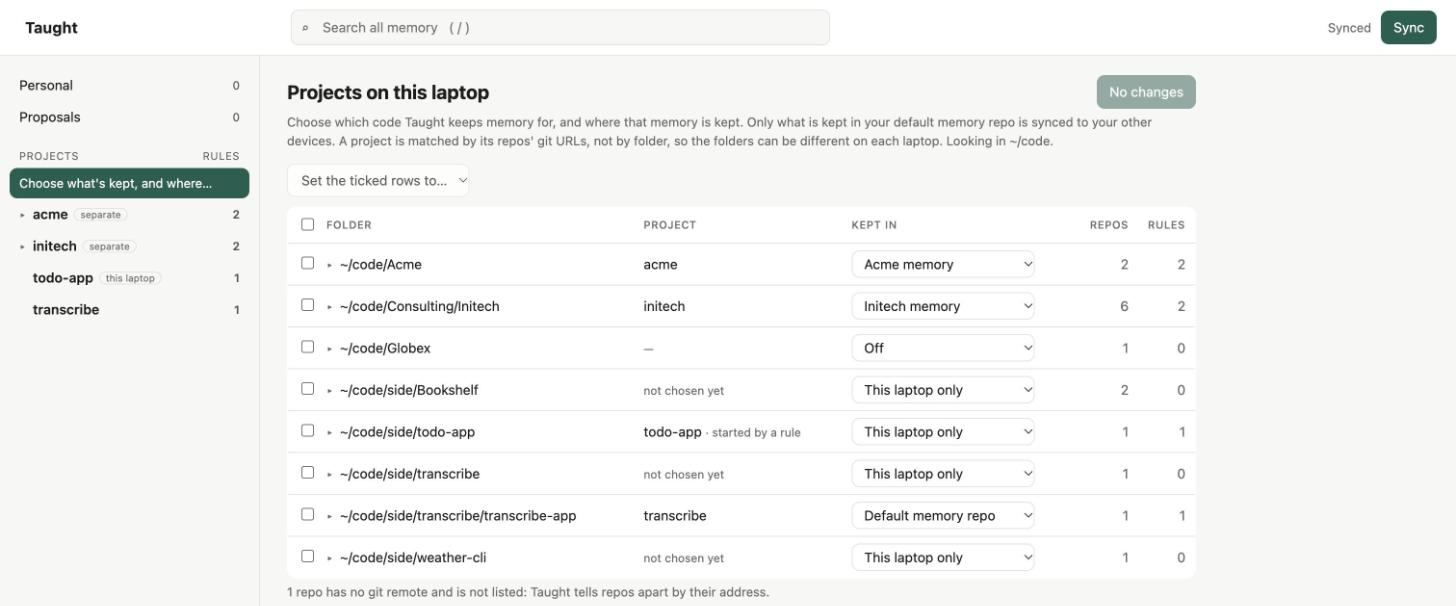
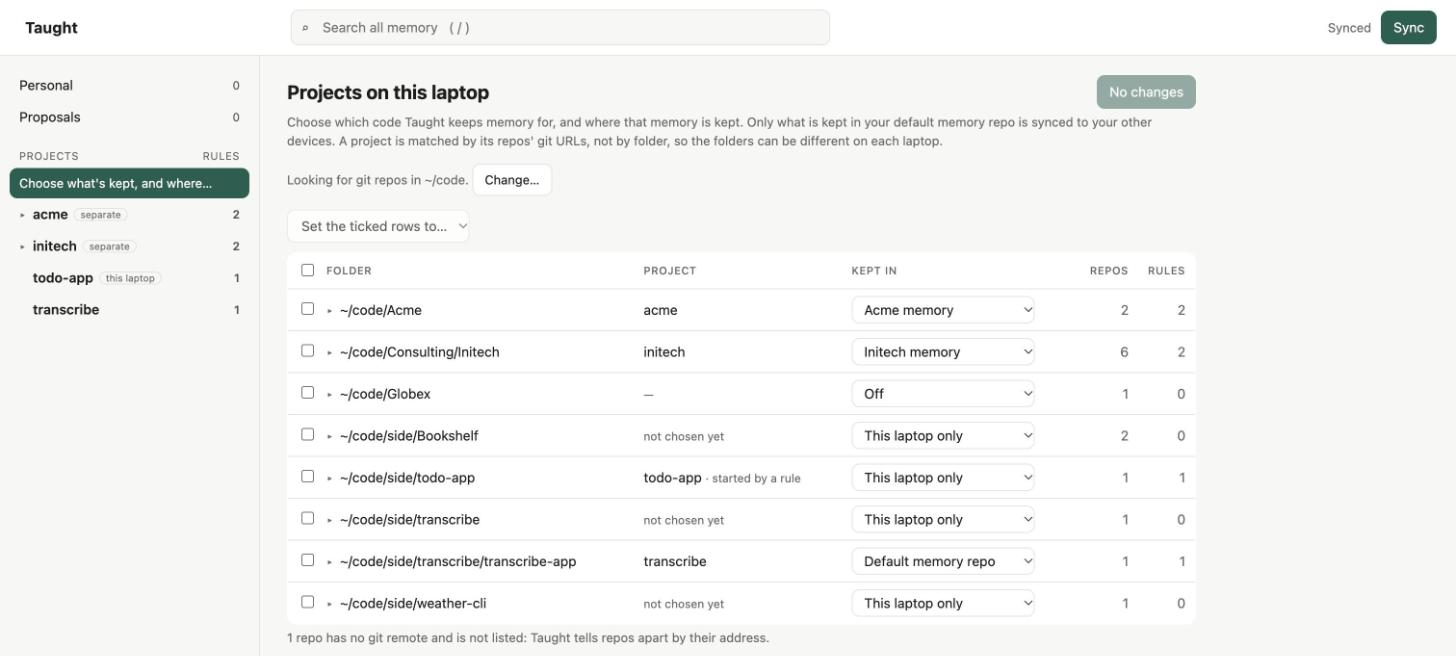
Setup finds your code by its git repos; no --repos needed

diff --git a/GETTING-STARTED.md b/GETTING-STARTED.md
@@ -19,18 +19,18 @@ This page takes about 10 minutes: install, choosing what to keep, a first test, 
 ```bash
 npm i -g https://github.com/ajeetsk/taught-releases/releases/latest/download/taught.tgz
 
-taught setup --remote git@github.com:you/taught-memory.git --repos ~/code
+taught setup --remote git@github.com:you/taught-memory.git
 ```
 
 - `--remote`: your memory repo. Use the same form (SSH or https) you use with `git clone`.
-- `--repos`: the folders that hold your code checkouts. You can list several (`--repos ~/code ~/work`). If you leave it out, Taught looks in `~/Repos`.
+- **Where your code is:** you don't have to say. Taught finds the folders in your home folder that hold git repos, whatever they are called, and tells you what it found. It doesn't look in hidden folders or in Documents, Desktop and Downloads. To name the folders yourself, add `--repos ~/code ~/work`, or change them anytime on the Projects page.
 
 Setup works through these steps and prints a line for each:
 
 | Step | What it does |
 |---|---|
 | Memory tree | Clones your memory repo into `~/.taught` |
-| Your code on this device | Finds your repos. It registers nothing: you choose what Taught keeps memory for (step 2) |
+| Your code on this device | Finds the folders that hold your git repos. It registers nothing: you choose what Taught keeps memory for (step 2) |
 | Claude Code hooks | So Claude syncs when a session starts and when it saves a memory |
 | Background sync | Every 5 minutes and at login (macOS) |
 | First sync | Writes every agent's files. Claude Code's own saved memories are imported for the projects you choose |
@@ -93,7 +93,7 @@ On the second machine, install Taught, then run the same setup with the **same m
 
 ```bash
 npm i -g https://github.com/ajeetsk/taught-releases/releases/latest/download/taught.tgz
-taught setup --remote <the same memory repo> --repos <where your code is on this machine>
+taught setup --remote <the same memory repo>
 ```
 
 Folder layouts don't have to match. Taught recognises a repo by its git remote, not its path, and SSH and https clones of the same repo count as one repo.

diff --git a/README.md b/README.md
@@ -12,7 +12,7 @@ You need Node 20+, git, and an empty **private** GitHub repo for your memory (fo
 
 ```bash
 npm i -g https://github.com/ajeetsk/taught-releases/releases/latest/download/taught.tgz
-taught setup --remote git@github.com:you/taught-memory.git --repos ~/code
+taught setup --remote git@github.com:you/taught-memory.git
 taught doctor
 ```
 
